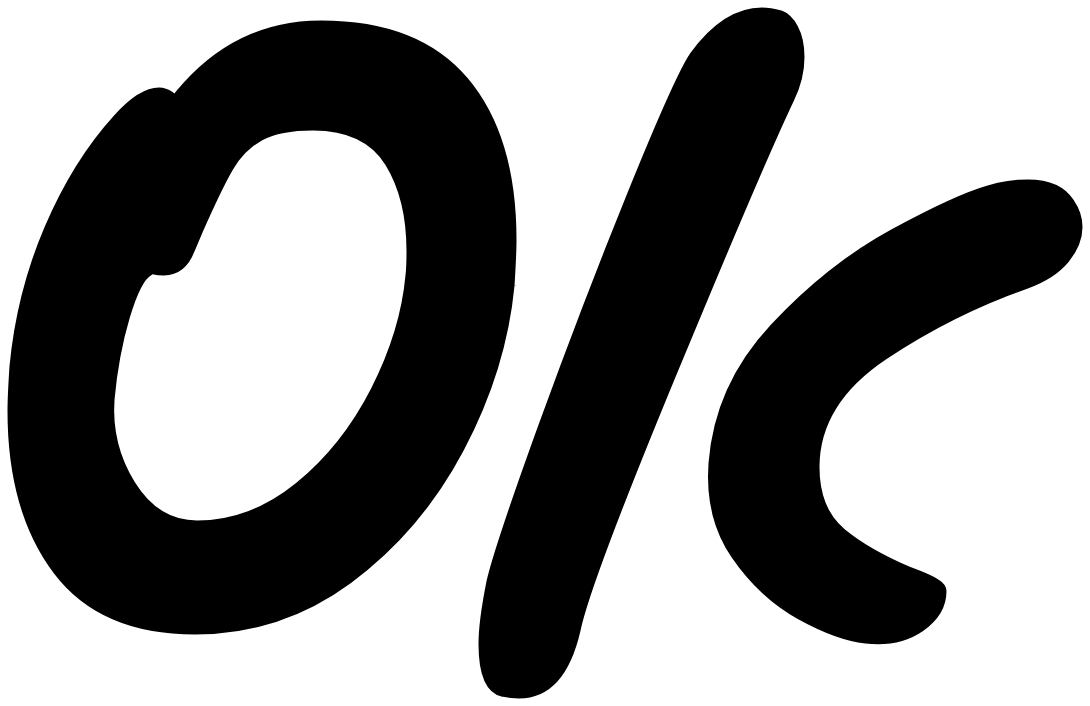
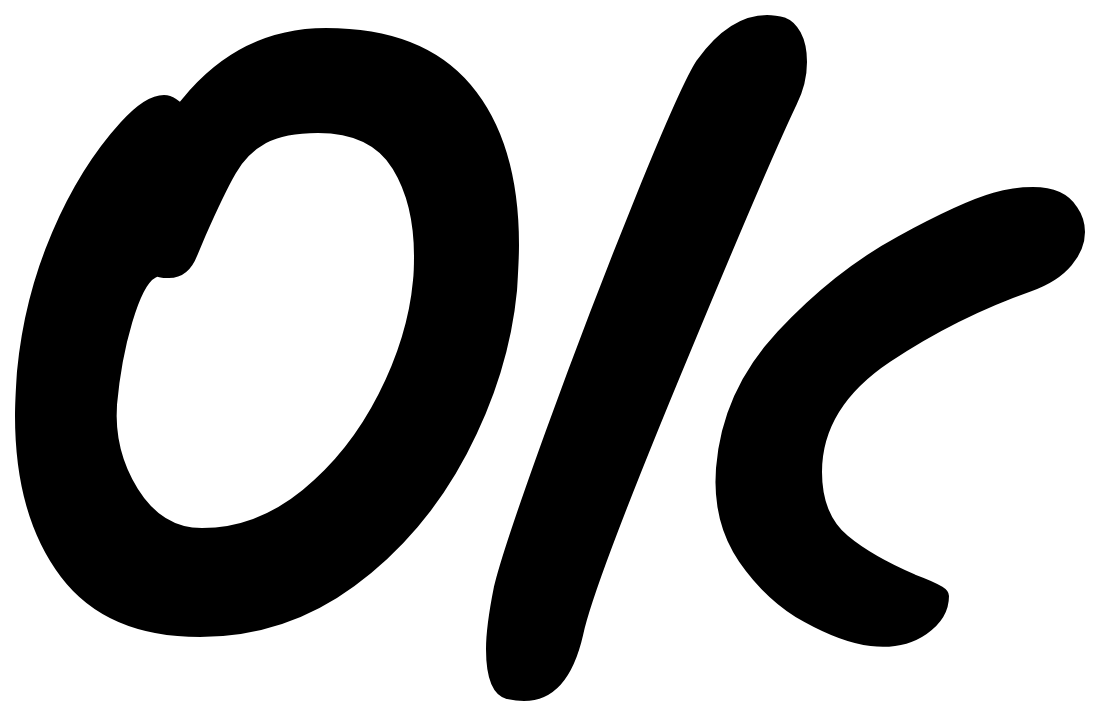
stroke 5->10

diff --git a/index.html b/index.html
@@ -37,7 +37,7 @@
       // ============================================
 
       const bb = path.getBoundingBox();
-      const stroke_width = 5;
+      const stroke_width = 10;
       const start = { x: bb.x1 - stroke_width, y: bb.y1 - stroke_width };
       const width = bb.x2 - bb.x1 + (2 * stroke_width);
       const height = bb.y2 - bb.y1 + (2 * stroke_width);
